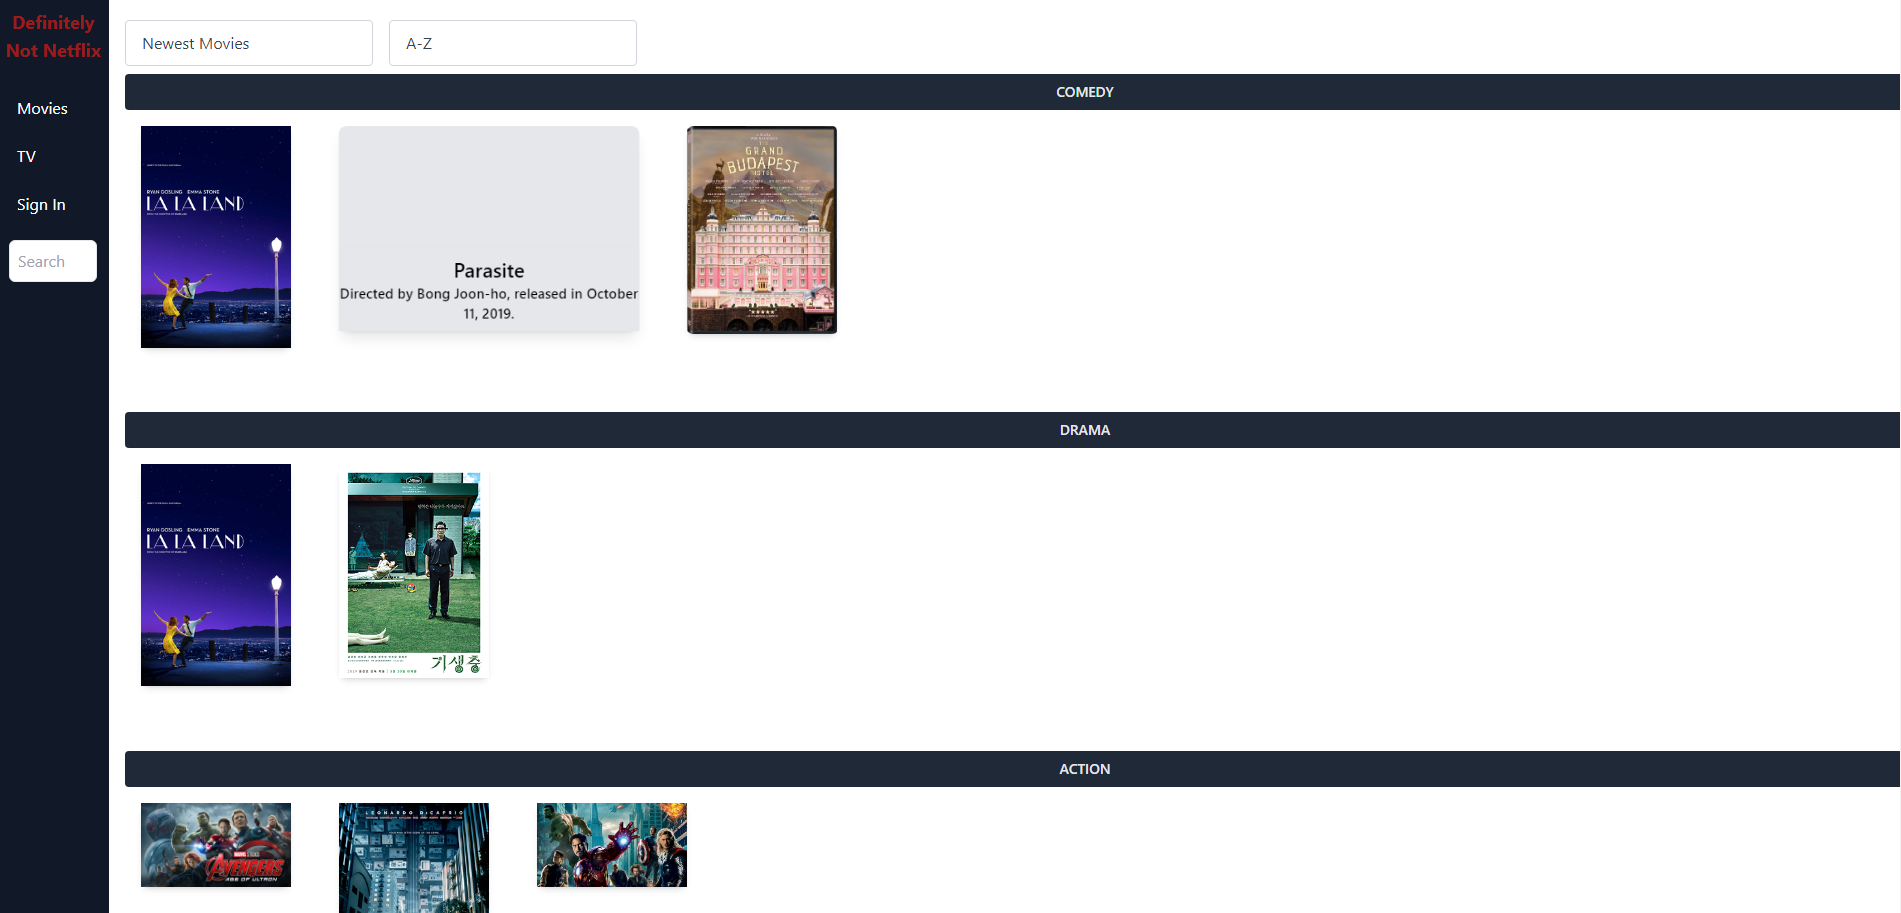
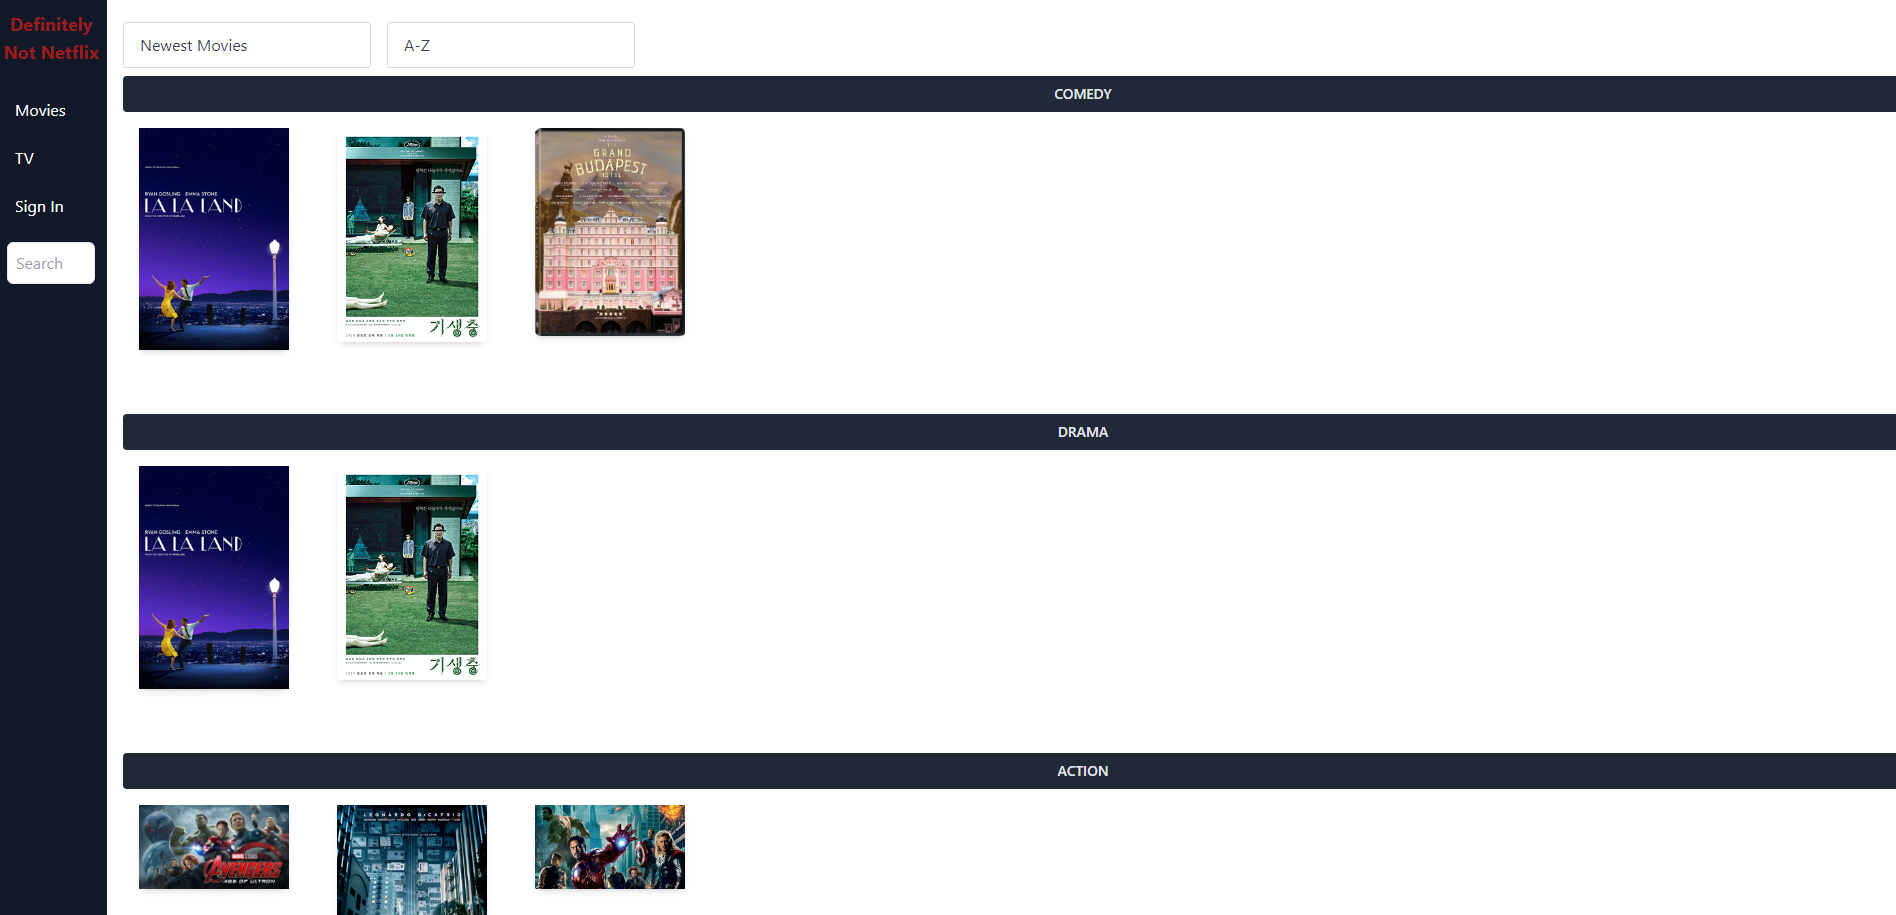
add last pictures + box 1 netflix clone

diff --git a/src/ProjectDisplays/NetflixClone/NetflixTemp.js b/src/ProjectDisplays/NetflixClone/NetflixTemp.js
@@ -1,0 +1,95 @@
+import React from "react";
+import NotNetflixSeries from "../../Assets/ProjectImages/NetflixClone/NotNetflixTvSeries.PNG";
+import NotNetflixView from "../../Assets/ProjectImages/NetflixClone/NotNetflixTvView.PNG";
+
+
+function NetflixTemp() {
+  return (
+    <section class="text-gray-600 body-font">
+    <div class="container px-5 mx-auto">
+      <div class="flex flex-col text-center w-full mb-20">
+        <h1 class="sm:text-3xl text-2xl font-medium title-font mb-4 text-gray-900"> Definitely Not Netflix</h1>
+        <p class="lg:w-full mx-auto leading-relaxed text-base"> Teaming up with a new connection from GrammerHub, we're building a Netflix clone. We've nailed down the app's layout (design is a work in progress) for various devices and added hover states for interactivity. Navigation between Home, Movies, TV Serie, with bookmarking planned. Show search functionality incorporates a search result page, and as a full-stack app, we're developing many more backend features. Plans for an authentication screen are in the pipeline.</p>
+      </div>
+      <div class="flex flex-wrap -m-4">
+
+        {/* Picture Content Box */}
+        <div class="lg:w-1/3 sm:w-1/2 p-4">
+          <div class="flex relative">
+            <img alt="Tv Series Mapped Not Netflix" class="absolute inset-0 w-full h-full object-contain object-center" src={NotNetflixSeries}/>
+            <div class="px-8 py-10 relative z-10 w-full border-4 border-gray-200 bg-white opacity-0 hover:opacity-100">
+              <h2 class="tracking-widest text-sm title-font font-medium text-indigo-500 mb-1">TV Series Available</h2>
+              <h1 class="title-font text-lg font-medium text-gray-900 mb-3">Please Watch</h1>
+              <p class="leading-relaxed">Every watch helps extend our licensing deals. The goal is to work on getting this data cached.</p>
+            </div>
+          </div>
+          <p class="text-center mt-2 leading-relaxed">NotNetflix Tv Series</p>
+        </div>
+
+        {/* Picture Content Box 2*/}
+        <div class="lg:w-1/3 sm:w-1/2 p-4">
+          <div class="flex relative">
+            <img alt="gallery" class="absolute inset-0 w-full h-full object-contain object-center" src={NotNetflixView}/>
+            <div class="px-8 py-10 relative z-10 w-full border-4 border-gray-200 bg-white opacity-0 hover:opacity-100">
+              <h2 class="tracking-widest text-sm title-font font-medium text-indigo-500 mb-1">THE SUBTITLE</h2>
+              <h1 class="title-font text-lg font-medium text-gray-900 mb-3">The Catalyzer</h1>
+              <p class="leading-relaxed">Photo booth fam kinfolk cold-pressed sriracha leggings jianbing microdosing tousled waistcoat.</p>
+            </div>
+          </div>
+        </div>
+
+        <div class="lg:w-1/3 sm:w-1/2 p-4">
+          <div class="flex relative">
+            <img alt="gallery" class="absolute inset-0 w-full h-full object-cover object-center" src="https://dummyimage.com/603x363"/>
+            <div class="px-8 py-10 relative z-10 w-full border-4 border-gray-200 bg-white opacity-0 hover:opacity-100">
+              <h2 class="tracking-widest text-sm title-font font-medium text-indigo-500 mb-1">THE SUBTITLE</h2>
+              <h1 class="title-font text-lg font-medium text-gray-900 mb-3">The 400 Blows</h1>
+              <p class="leading-relaxed">Photo booth fam kinfolk cold-pressed sriracha leggings jianbing microdosing tousled waistcoat.</p>
+            </div>
+          </div>
+        </div>
+
+        
+        <div class="lg:w-1/3 sm:w-1/2 p-4">
+          <div class="flex relative">
+            <img alt="gallery" class="absolute inset-0 w-full h-full object-cover object-center" src="https://dummyimage.com/602x362"/>
+            <div class="px-8 py-10 relative z-10 w-full border-4 border-gray-200 bg-white opacity-0 hover:opacity-100">
+              <h2 class="tracking-widest text-sm title-font font-medium text-indigo-500 mb-1">THE SUBTITLE</h2>
+              <h1 class="title-font text-lg font-medium text-gray-900 mb-3">Neptune</h1>
+              <p class="leading-relaxed">Photo booth fam kinfolk cold-pressed sriracha leggings jianbing microdosing tousled waistcoat.</p>
+            </div>
+          </div>
+        </div>
+
+
+        <div class="lg:w-1/3 sm:w-1/2 p-4">
+          <div class="flex relative">
+            <img alt="gallery" class="absolute inset-0 w-full h-full object-cover object-center" src="https://dummyimage.com/605x365"/>
+            <div class="px-8 py-10 relative z-10 w-full border-4 border-gray-200 bg-white opacity-0 hover:opacity-100">
+              <h2 class="tracking-widest text-sm title-font font-medium text-indigo-500 mb-1">THE SUBTITLE</h2>
+              <h1 class="title-font text-lg font-medium text-gray-900 mb-3">Holden Caulfield</h1>
+              <p class="leading-relaxed">Photo booth fam kinfolk cold-pressed sriracha leggings jianbing microdosing tousled waistcoat.</p>
+            </div>
+          </div>
+        </div>
+
+
+        <div class="lg:w-1/3 sm:w-1/2 p-4">
+          <div class="flex relative">
+            <img alt="gallery" class="absolute inset-0 w-full h-full object-cover object-center" src="https://dummyimage.com/606x366"/>
+            <div class="px-8 py-10 relative z-10 w-full border-4 border-gray-200 bg-white opacity-0 hover:opacity-100">
+              <h2 class="tracking-widest text-sm title-font font-medium text-indigo-500 mb-1">THE SUBTITLE</h2>
+              <h1 class="title-font text-lg font-medium text-gray-900 mb-3">Alper Kamu</h1>
+              <p class="leading-relaxed">Photo booth fam kinfolk cold-pressed sriracha leggings jianbing microdosing tousled waistcoat.</p>
+            </div>
+          </div>
+        </div>
+
+        
+      </div>
+    </div>
+  </section>
+  );
+}
+
+export default NetflixTemp;

diff --git a/src/ProjectComponents/ProjectCard.js b/src/ProjectComponents/ProjectCard.js
@@ -85,7 +85,7 @@ function ProjectCard(){
         <div className="flex items-start justify-between gap-2 px-2">
           <div className="flex flex-col">
             <a href="https://youtu.be/ctFBd6pSzNA" target="_blank" rel="noreferrer" className="text-lg font-bold text-gray-800 transition duration-100 hover:text-gray-500 lg:text-xl">Adda</a>
-            <span className="text-gray-500">How my chatbot won "Most Innovative" in the hackathon. Adda is an educational chatbot who teaches students with disabilities, born out of a two-week hackathon. <br/> <br/> Clicking the title OR card will take you to an external site (YouTube).</span>
+            <span className="text-gray-500">Our chatbot won "Most Innovative" in the hackathon. Adda is an educational chatbot who teaches students with disabilities, born out of a two-week hackathon. <br/> <br/> Clicking the title OR card will take you to an external site (YouTube).</span>
           </div>
 
         </div>

diff --git a/src/ProjectDisplays/NetflixClone/NetflixCloneDisplay.js b/src/ProjectDisplays/NetflixClone/NetflixCloneDisplay.js
@@ -5,7 +5,8 @@ import React, { useState, useEffect, useCallback } from "react"
 // import HobbyWarsLeaderBoards from "./HobbyWarsLeaderboards"
 // import HobbyWarsUserProfile from "./HobbyWarsUserProfiles"
 
-import NetflixCloneTemp from "./NetflixCloneTemp";
+import NetflixMovieCollections from "./NetflixMovieCollections";
+import NetflixTemp from "./NetflixTemp";
 
 function NextflixCloneDisplay(){
 
@@ -20,7 +21,7 @@ function NextflixCloneDisplay(){
     console.log(selectedIndex)
 
     const projectDisplayComponents = [
-      NetflixCloneTemp
+      NetflixTemp
       // HobbyWarsCompetition,
       // HobbyWarsLeaderBoards,
       // HobbyWarsUserProfile,

diff --git a/src/ProjectDisplays/NetflixClone/NetflixMovieCollections.js b/src/ProjectDisplays/NetflixClone/NetflixMovieCollections.js
@@ -1,7 +1,7 @@
 import React from "react";
 import NotNetflixMovies from "../../Assets/ProjectImages/NetflixClone/NotNetflixMovies.PNG";
 
-function NetflixCloneTemp() {
+function NetflixMovieCollections() {
   return (
     <section className="text-gray-600 body-font overflow-hidden">
       <div className="container">
@@ -28,4 +28,4 @@ function NetflixCloneTemp() {
   );
 }
 
-export default NetflixCloneTemp;
+export default NetflixMovieCollections;
